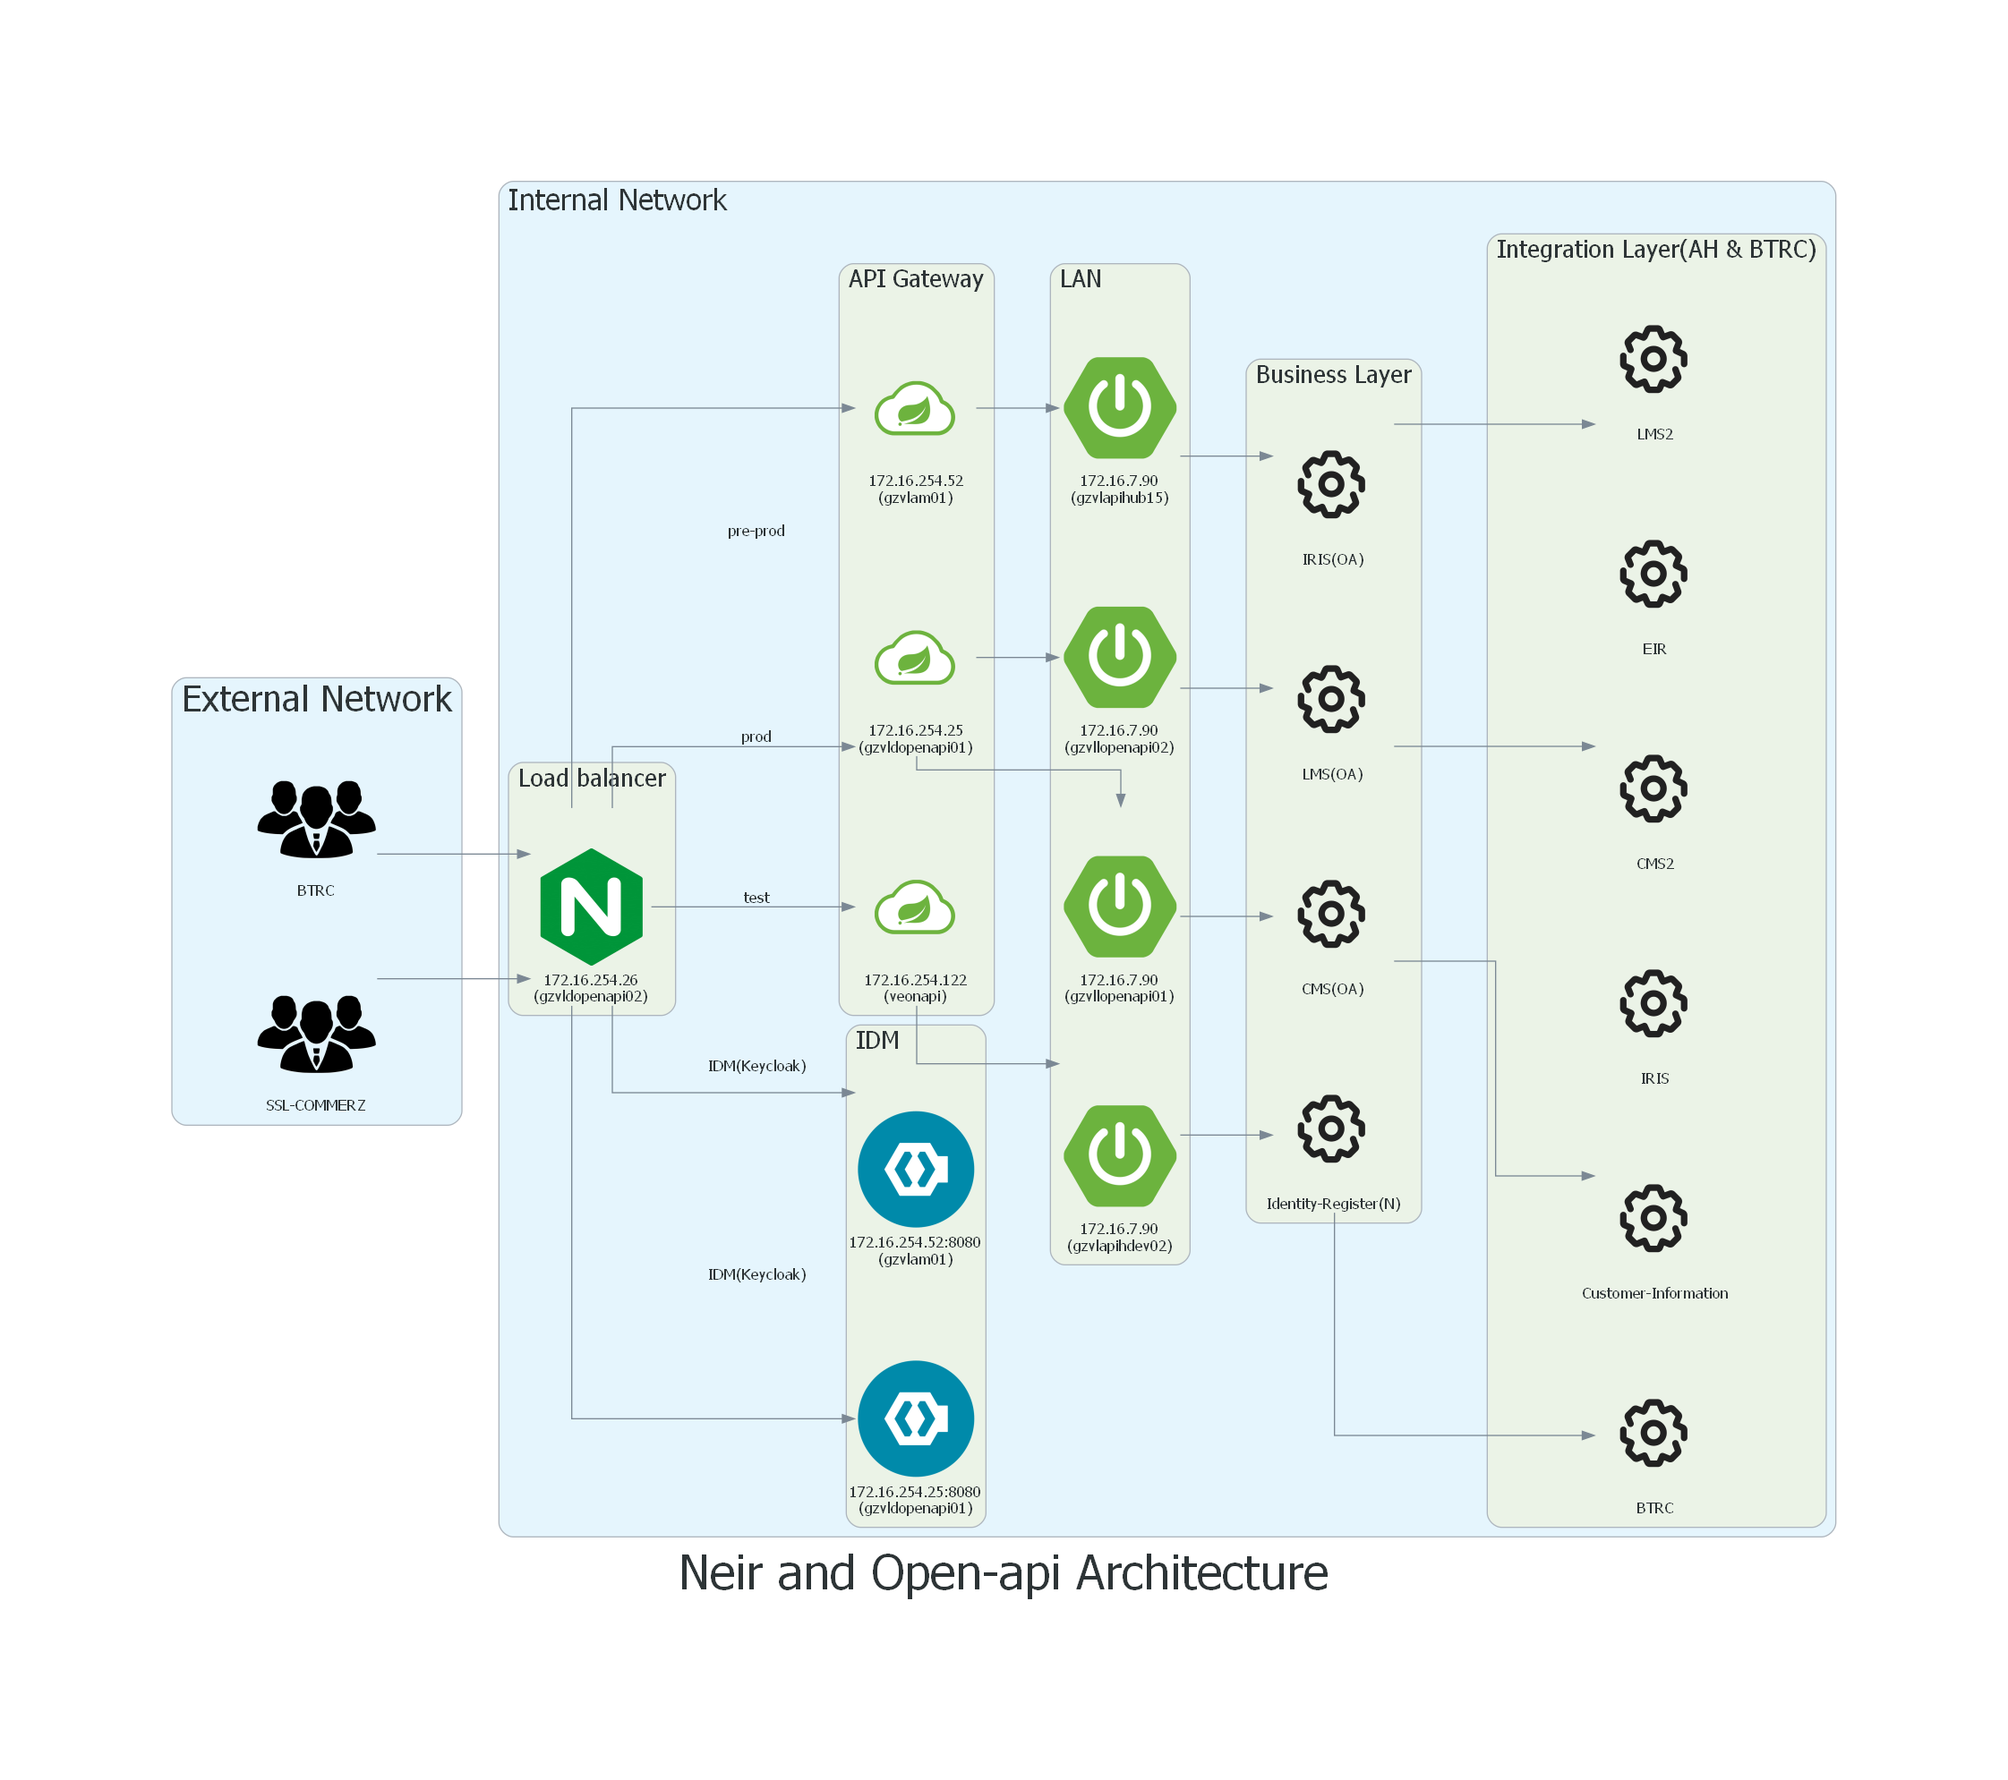
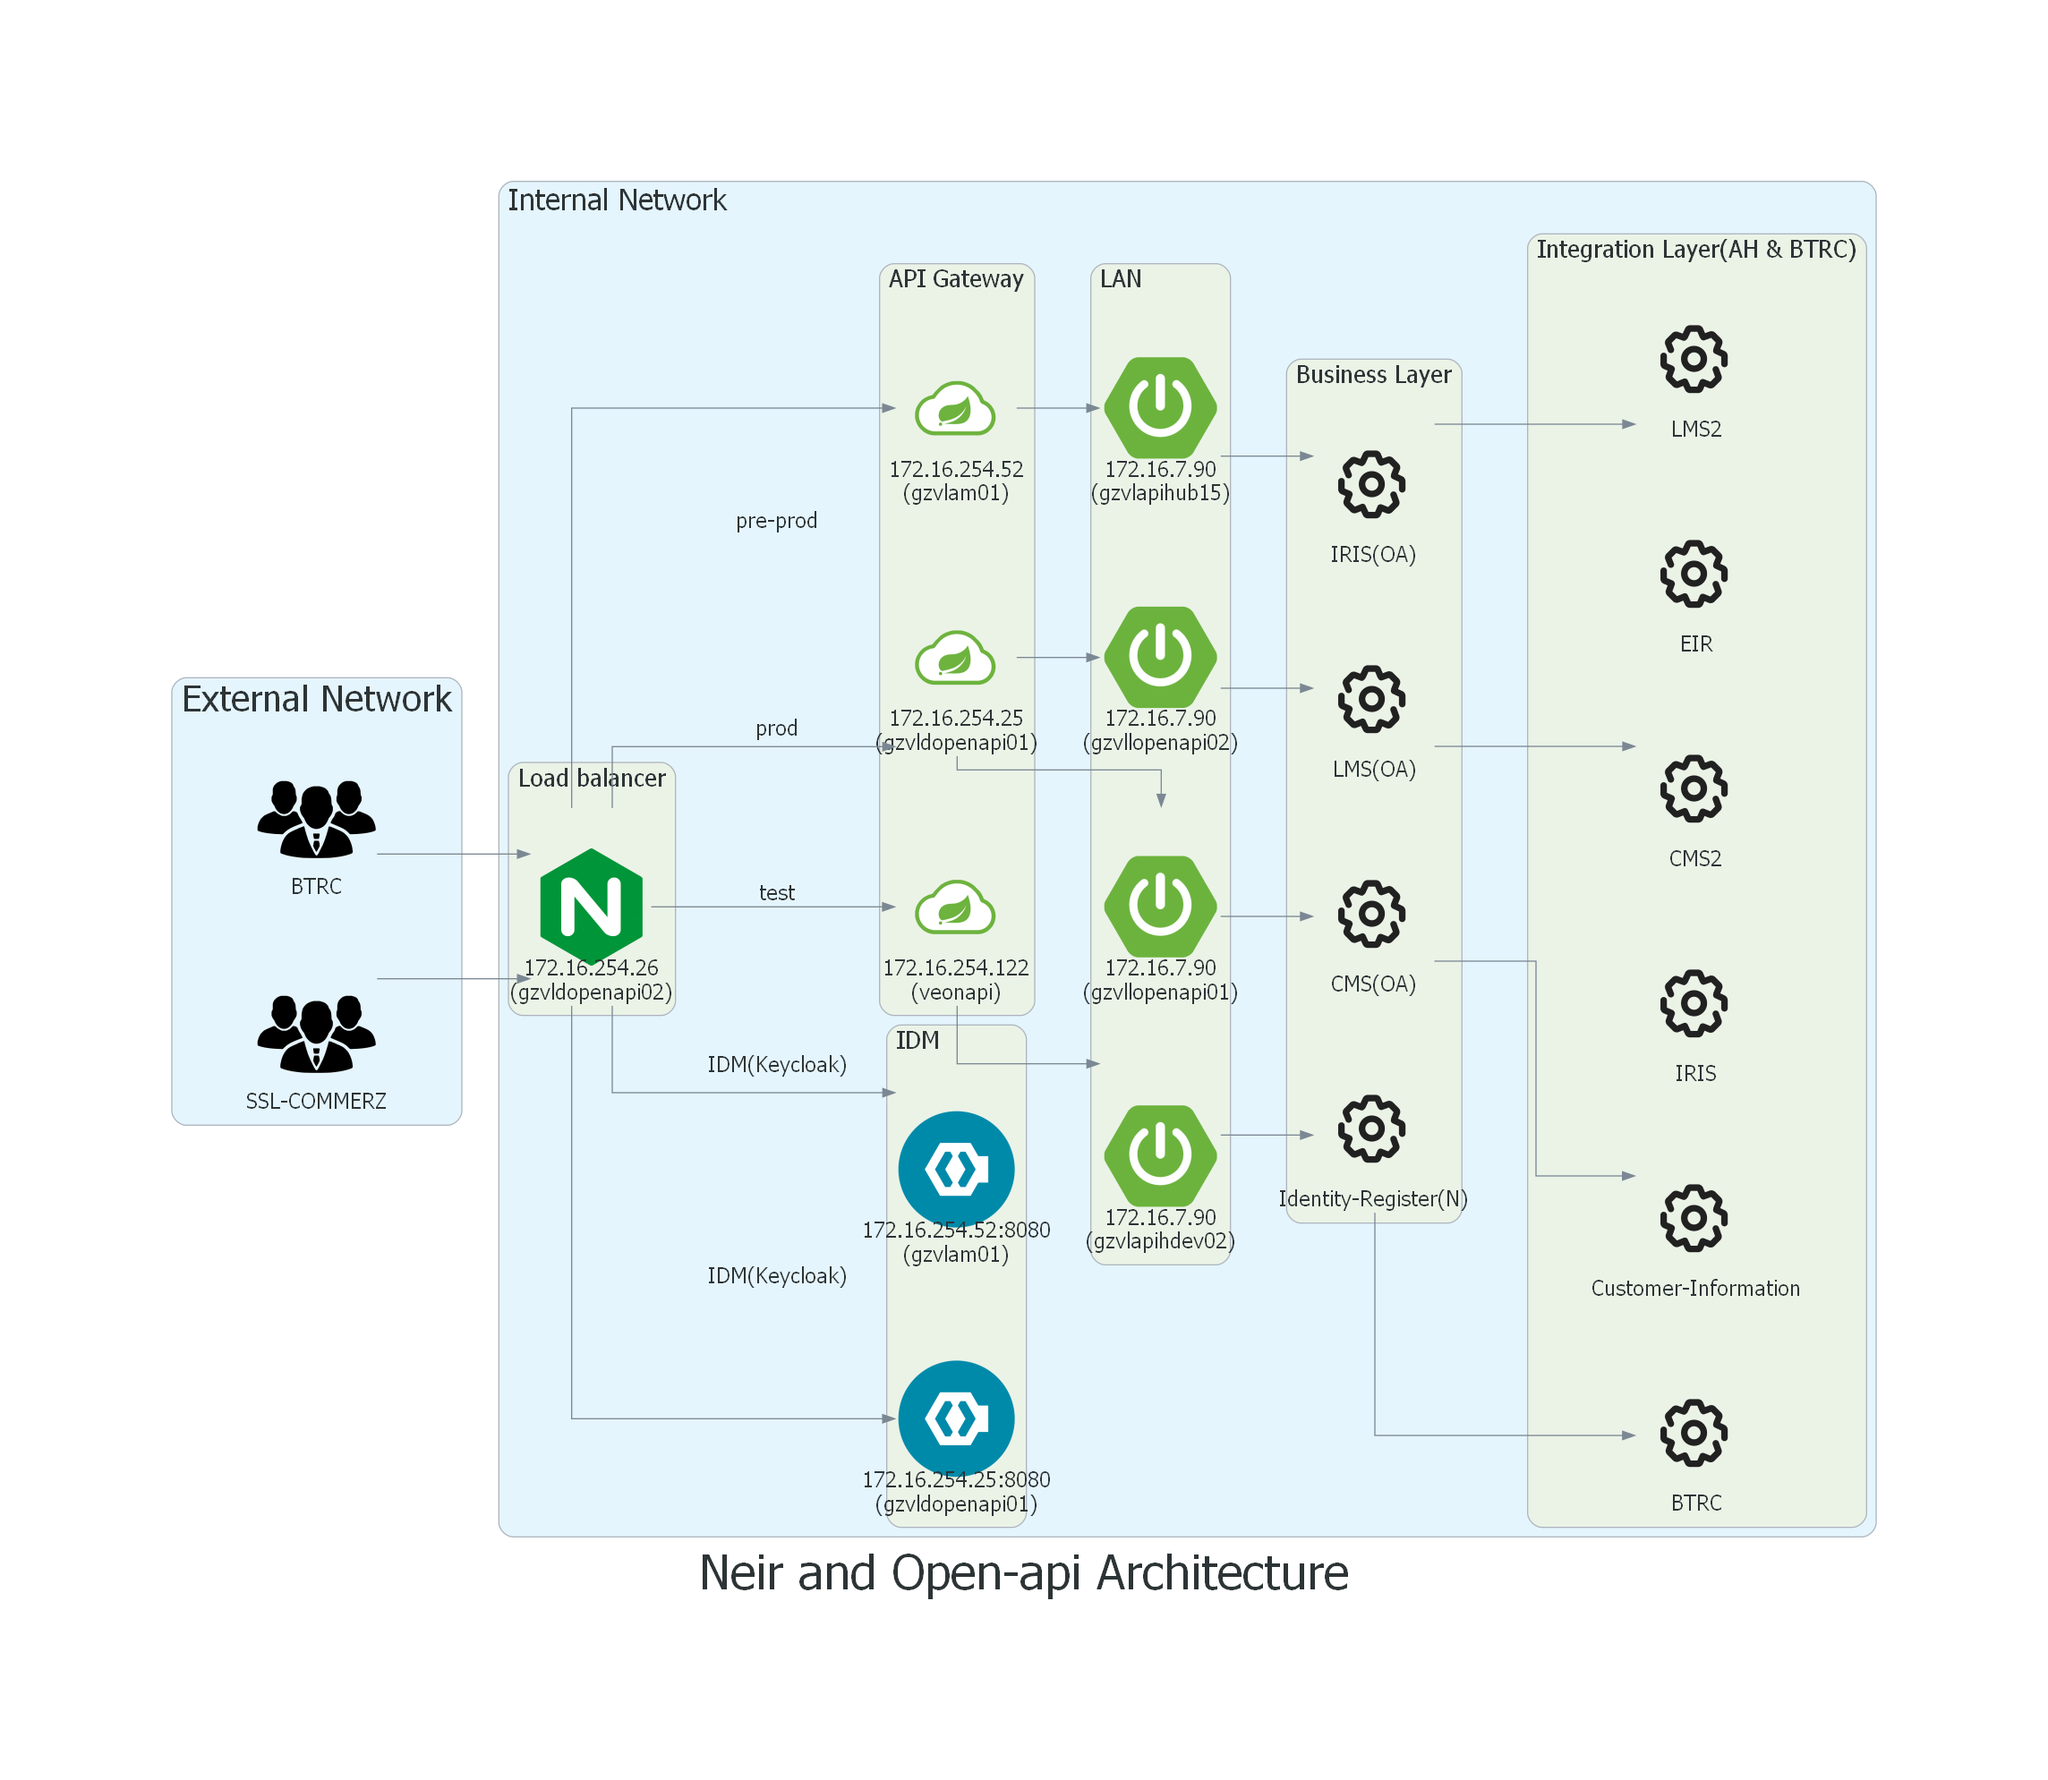
update 37

diff --git a/FinalDiagram.py b/FinalDiagram.py
@@ -36,53 +36,53 @@ graph_font1={
 with Diagram("Neir and Open-api Architecture", show=True,graph_attr=graph_attr):
     
     with Cluster("External Network",graph_attr=graph_ex):
-        ex_clnt = [Custom("BTRC",external),
-                   Custom("SSL-COMMERZ",external)]
+        ex_clnt = [Custom("BTRC",external,fontsize="18px"),
+                   Custom("SSL-COMMERZ",external,fontsize="18px")]
         
     
 
     with Cluster("Internal Network",graph_attr=graph_in):
         
         with Cluster("Load balancer",graph_attr=graph_font):
-            lb = Custom("172.16.254.26\n(gzvldopenapi02)",loadBalancer)
+            lb = Custom("172.16.254.26\n(gzvldopenapi02)",loadBalancer,fontsize="18px")
         
         with Cluster("IDM",graph_attr=graph_font):
-            idm = [ Custom("172.16.254.25:8080\n(gzvldopenapi01)",IDM),
-                    Custom("172.16.254.52:8080\n(gzvlam01)",IDM)]
+            idm = [ Custom("172.16.254.25:8080\n(gzvldopenapi01)",IDM,fontsize="18px"),
+                    Custom("172.16.254.52:8080\n(gzvlam01)",IDM,fontsize="18px")]
             
         with Cluster("API Gateway",graph_attr=graph_font):
-            apiG = Custom("172.16.254.122\n(veonapi)",apiGateway)
-            apiG1 = Custom("172.16.254.25\n(gzvldopenapi01)",apiGateway)
-            apiG2 = Custom("172.16.254.52\n(gzvlam01)",apiGateway)
+            apiG = Custom("172.16.254.122\n(veonapi)",apiGateway,fontsize="18px")
+            apiG1 = Custom("172.16.254.25\n(gzvldopenapi01)",apiGateway,fontsize="18px")
+            apiG2 = Custom("172.16.254.52\n(gzvlam01)",apiGateway,fontsize="18px")
 
         with Cluster("LAN",graph_attr=graph_font):
-            lan1 = Custom("172.16.7.90\n(gzvlapihdev02)",LAN)
-            lan2 = Custom("172.16.7.90\n(gzvllopenapi01)",LAN)
-            lan3 = Custom("172.16.7.90\n(gzvllopenapi02)",LAN)
-            lan4 = Custom("172.16.7.90\n(gzvlapihub15)",LAN)
+            lan1 = Custom("172.16.7.90\n(gzvlapihdev02)",LAN,fontsize="18px")
+            lan2 = Custom("172.16.7.90\n(gzvllopenapi01)",LAN,fontsize="18px")
+            lan3 = Custom("172.16.7.90\n(gzvllopenapi02)",LAN,fontsize="18px")
+            lan4 = Custom("172.16.7.90\n(gzvlapihub15)",LAN,fontsize="18px")
             
         with Cluster("Business Layer",graph_attr=graph_font):
-            bl1 =  Custom("Identity-Register(N)",srvc)
-            bl2 =  Custom("CMS(OA)",srvc)
-            bl3 =  Custom("LMS(OA)",srvc)
-            bl4 =  Custom("IRIS(OA)",srvc)
+            bl1 =  Custom("Identity-Register(N)",srvc,fontsize="18px")
+            bl2 =  Custom("CMS(OA)",srvc,fontsize="18px")
+            bl3 =  Custom("LMS(OA)",srvc,fontsize="18px")
+            bl4 =  Custom("IRIS(OA)",srvc,fontsize="18px")
             
         
         with Cluster("Integration Layer(AH & BTRC)",graph_attr=graph_font):
-            ew1 =   Custom("BTRC",srvc)
-            ew2 =   Custom("EIR",srvc)
-            ew3 =   Custom("Customer-Information",srvc)
-            ew4 =   Custom("IRIS",srvc)
-            ew5 =   Custom("CMS2",srvc)
-            ew6 =   Custom("LMS2",srvc)
+            ew1 =   Custom("BTRC",srvc,fontsize="18px")
+            ew2 =   Custom("EIR",srvc,fontsize="18px")
+            ew3 =   Custom("Customer-Information",srvc,fontsize="18px")
+            ew4 =   Custom("IRIS",srvc,fontsize="18px")
+            ew5 =   Custom("CMS2",srvc,fontsize="18px")
+            ew6 =   Custom("LMS2",srvc,fontsize="18px")
 
 
                 
 
-    ex_clnt >> lb >>Edge(label="IDM(Keycloak)")>> idm
-    lb >> Edge(label="test")>> apiG >> lan1
-    lb >> Edge(label="prod")>> apiG1
-    lb >> Edge(label="pre-prod")>> apiG2 >> lan4
+    ex_clnt >> lb >>Edge(label="IDM(Keycloak)",fontsize="18px")>> idm
+    lb >> Edge(label="test",fontsize="18px")>> apiG >> lan1
+    lb >> Edge(label="prod",fontsize="18px")>> apiG1
+    lb >> Edge(label="pre-prod",fontsize="18px")>> apiG2 >> lan4
     apiG1 >> lan2
     apiG1 >> lan3
     lan1 >> bl1

diff --git a/tempCodeRunnerFile.py b/tempCodeRunnerFile.py
@@ -1,13 +1,1 @@
-graph_in={
-    "fontsize":"25"
-}
-graph_ex={
-    "fontsize":"30",
-    "width":"450px",
-    }
-graph_font={
-    "fontsize":"20"
-}
-graph_font1={
-    "fontsize":"15"
-}
+,fontsize="15"
